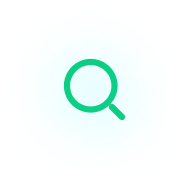
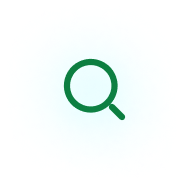
change color, add contact page

Changed region(s): [[0.3175, 0.291, 0.6614, 0.6349]]

diff --git a/tailwind.config.ts b/tailwind.config.ts
@@ -14,7 +14,7 @@ const config: Config = {
           "conic-gradient(from 180deg at 50% 50%, var(--tw-gradient-stops))",
       },
       colors: {
-        "primary": '#0BCE83',
+        "primary": '#0C7E40',
         "secondary": "#9994A4"
       },
       fontFamily: {

diff --git a/app/contactus/page.tsx b/app/contactus/page.tsx
@@ -1,4 +1,4 @@
-export default function About() {
+export default function ContactUs() {
     return (
       <main className="flex min-h-screen flex-col items-center justify-between p-24">
         about
